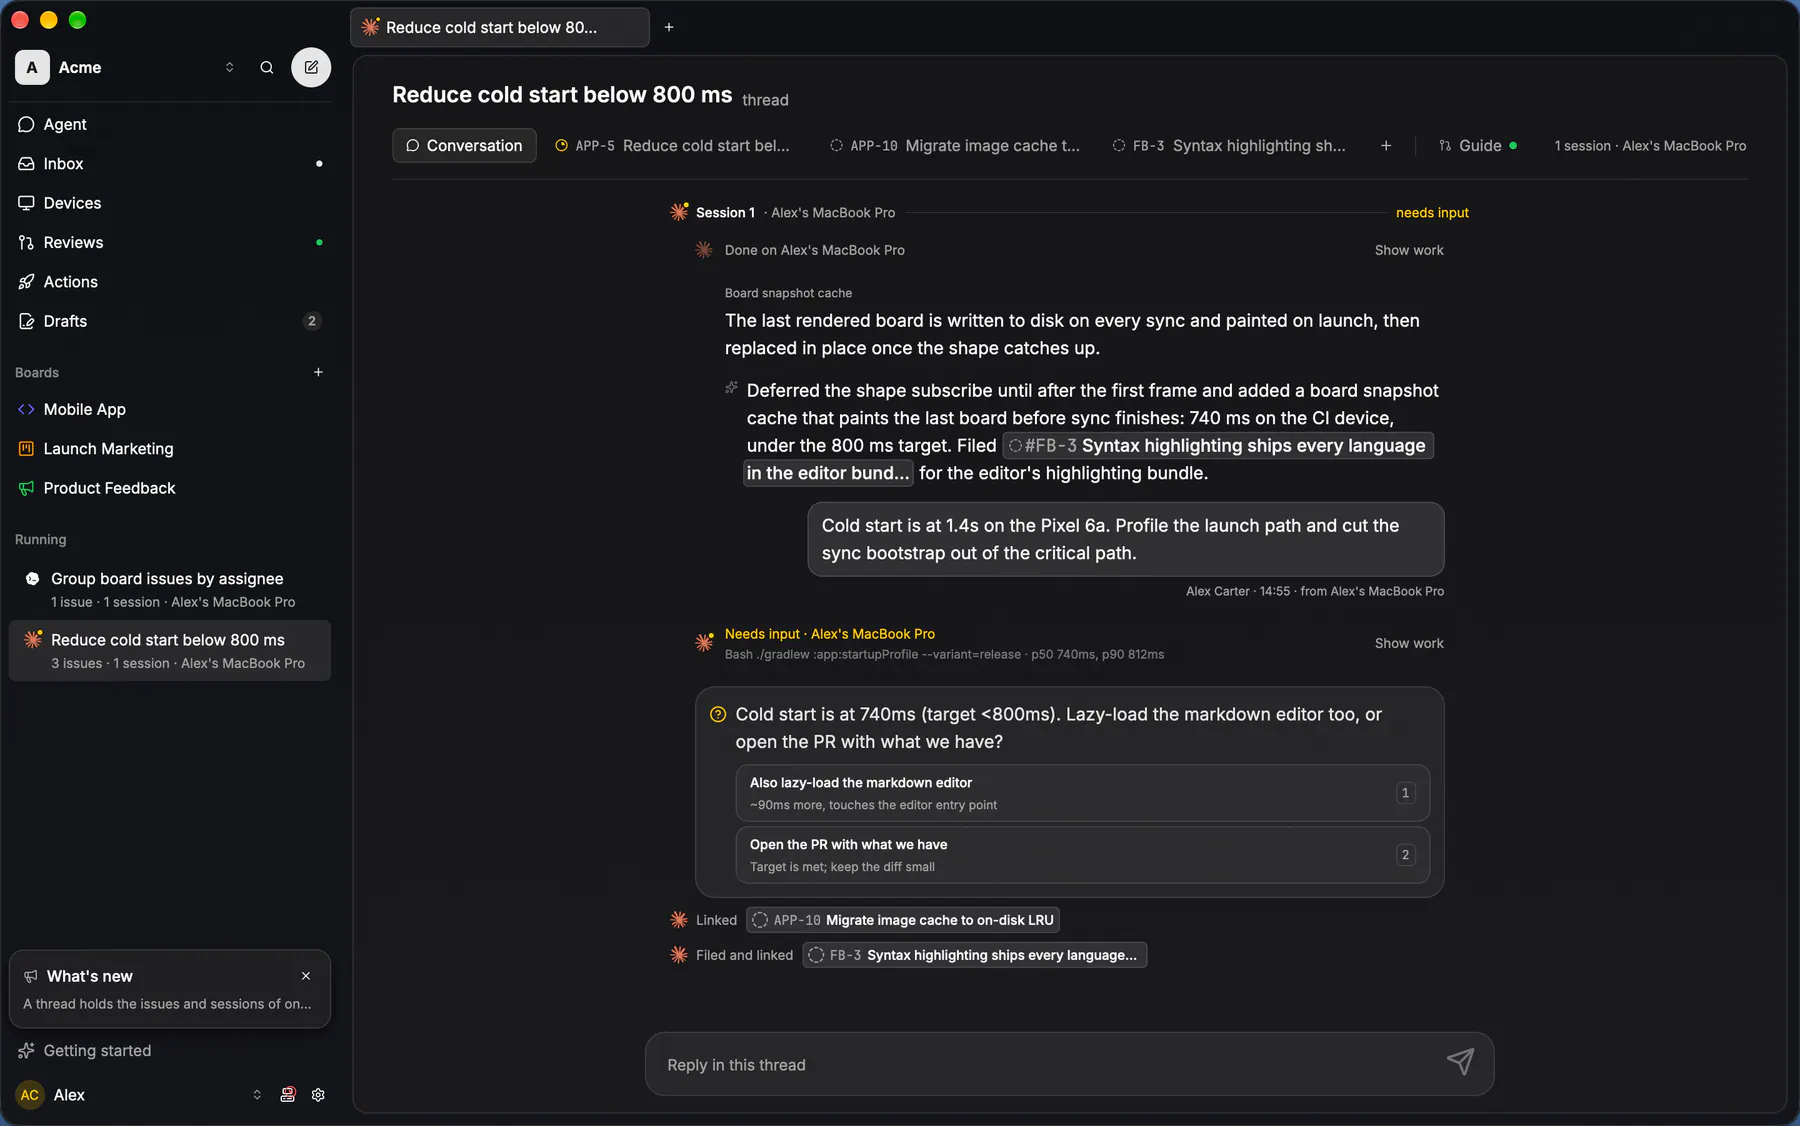
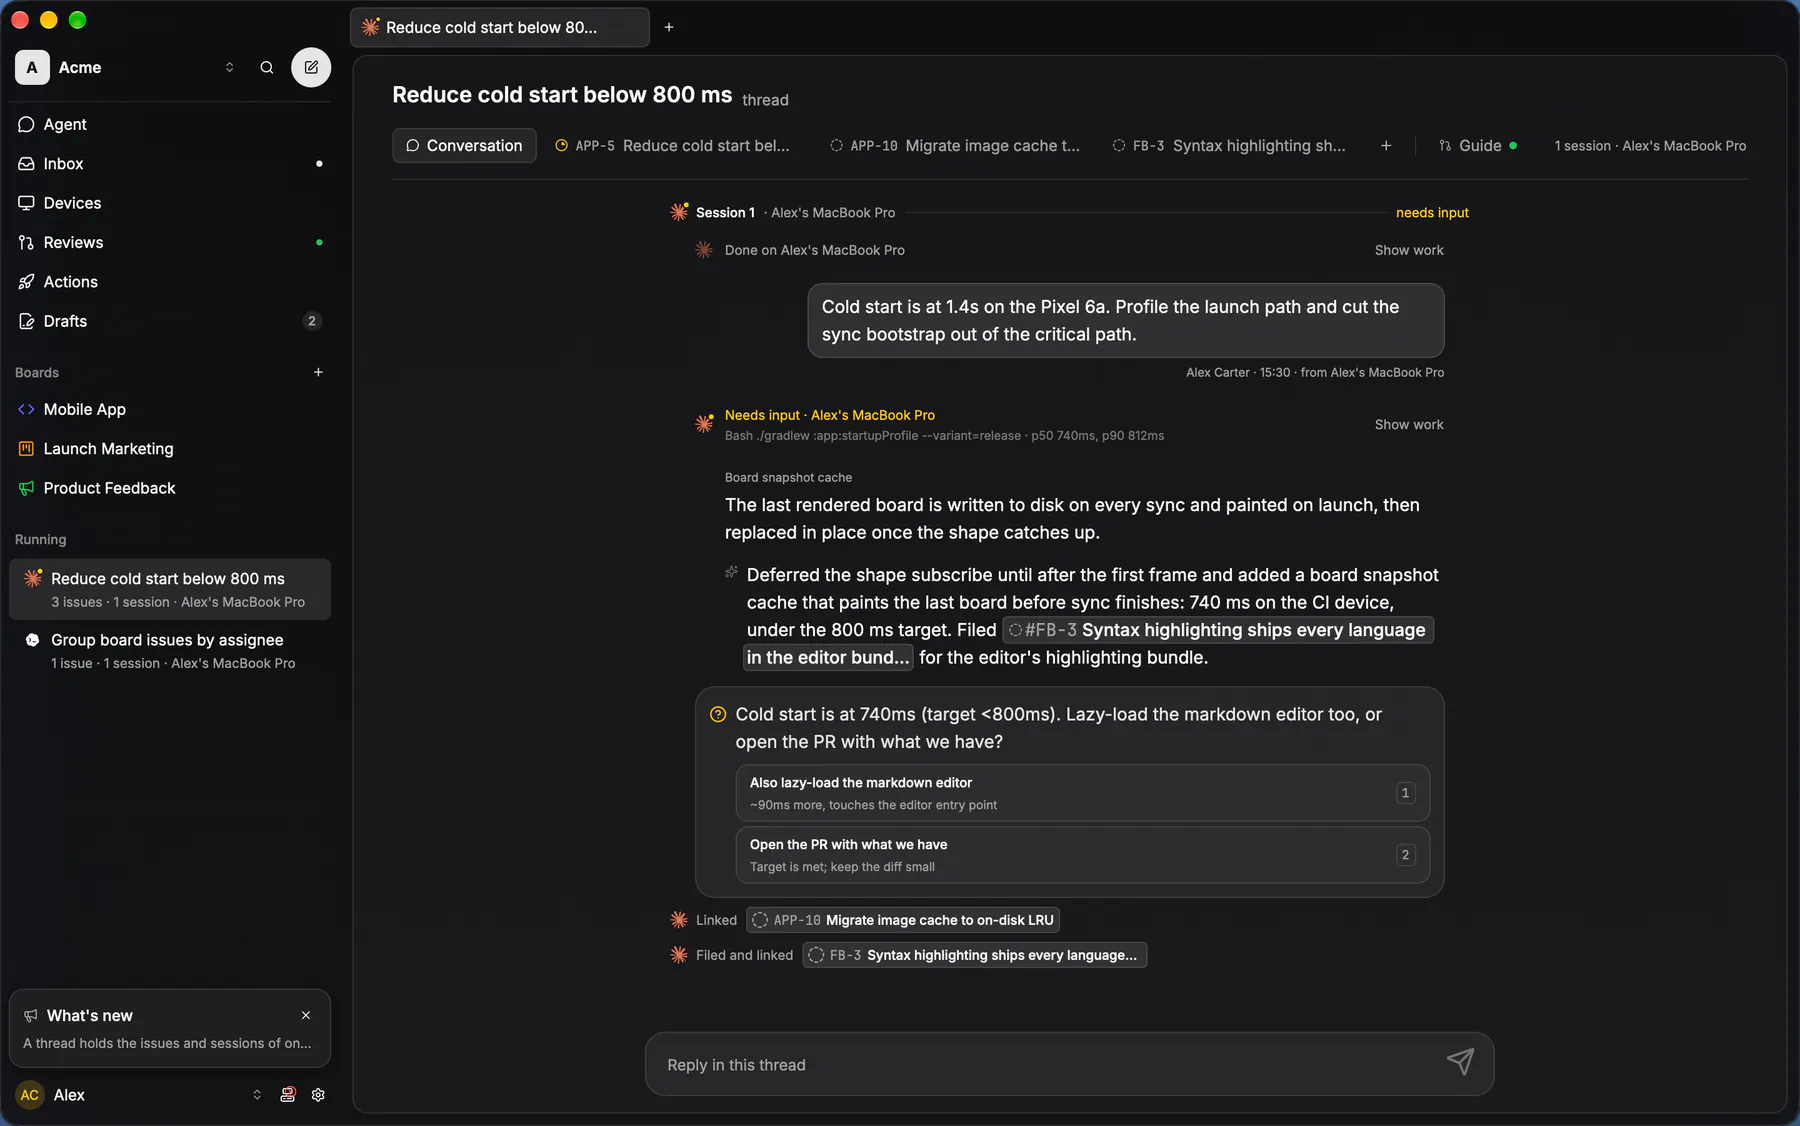
EXP-1284 shots: desktop thread recaptured in real order (prompt, work, Guide, question); `thread` joins the steer-dependent views so the pipeline starts the relay stub for it

Changed region(s): [[0.3733, 0.2487, 0.8089, 0.6217], [0.0, 0.4973, 0.1867, 0.6217], [0.0, 0.8393, 0.1556, 0.9636]]

diff --git a/packages/shots/src/capture-all.ts b/packages/shots/src/capture-all.ts
@@ -111,6 +111,9 @@ const STEER_DEPENDENT_VIEWS = new Set([
   `issue-detail`,
   `board`,
   `machine-settings`,
+  // EXP-1284: the thread's live session renders its prompt, work and pending
+  // question off the stub's feed; without it the conversation reads "Paused".
+  `thread`,
 ])
 /**
  * Views that photograph the demo user's DEVICE FLEET: the Devices page, a
